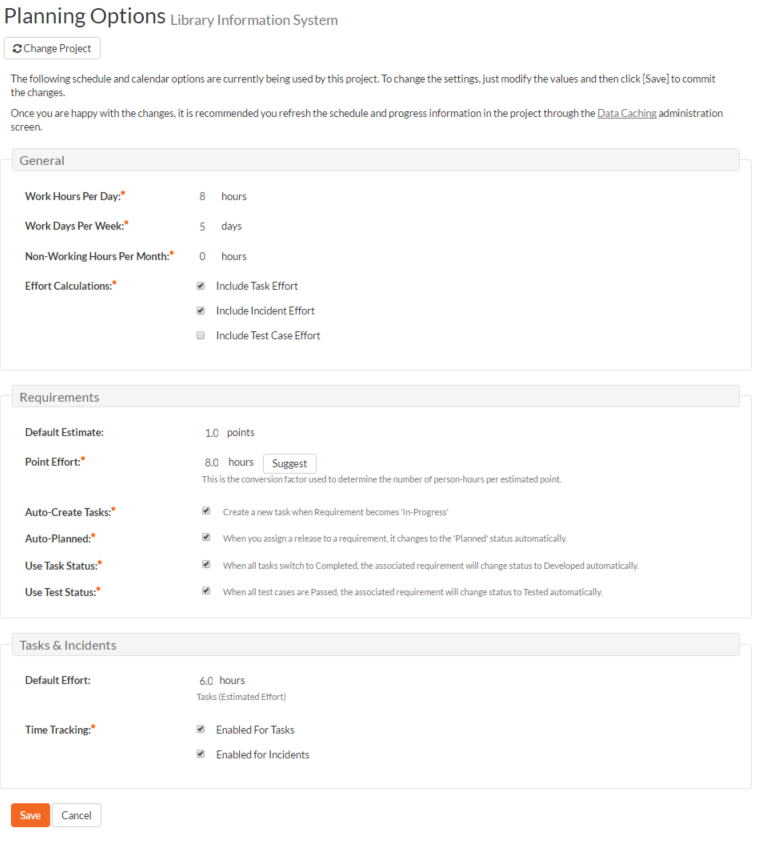
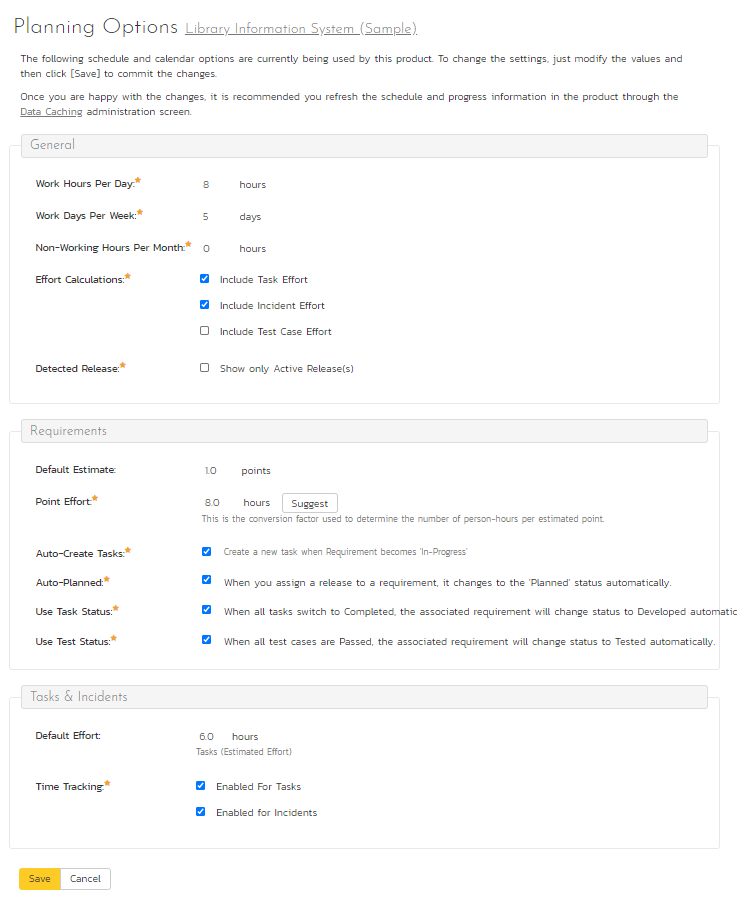
changes to planning options

diff --git a/docs/Spira-Administration-Guide/Product-Planning.md b/docs/Spira-Administration-Guide/Product-Planning.md
@@ -9,27 +9,28 @@ The Planning Options page lets you configure the schedule and calendar options f
 This page allows you to make changes to the following settings:
 
 ### General
-- **Work Hours Per Day** -- this setting allow you to specify how many work hours should be used when converting an effort calculation from hours to calendar days. For example a 12 hour task will occupy two days if you set the working hours per day to 6 hours, whereas the same task will occupy 1 ½ days only if you set the working hours per day to 8 hours.
-- **Work Days Per Week** -- this setting allows you to specify how many days in the week are *typically* worked on the product. By default the system assumes a 5-day (Mon-Fri) working week, but if your organization works Saturdays (for example), you may want to switch to a 6-day working week. If you want to use partial days, then just round up to the nearest day and add non-working hours (see below) to compensate.
-- **Non-Working Hours Per Month** -- this setting allows to specify how many non-working hours *typically* need to be accounted for. This is useful if you want to have a working week that contains a fractional number of days or if you have recurring activities that need to be removed from each month. *Note that if you have specific holidays, vacation days that need to be accounted for, it is better to use the Release/Iteration non-working time feature instead.*
-- **Effort Calculations** -- When calculating how much effort has been scheduled in a release or iteration, the system will aggregate the individual effort values (both estimated and actual) for all the task, incident and test cases artifacts associated with the release/iteration. This setting allows you to specify if you want only task, incident, or test case effort values to be included in the release/iteration total. This is useful if your product management methodology requires that incident or test case effort values be excluded from the total.
+- **Work Hours Per Day**: this setting allow you to specify how many work hours should be used when converting an effort calculation from hours to calendar days. For example a 12 hour task will occupy two days if you set the working hours per day to 6 hours, whereas the same task will occupy 1 ½ days only if you set the working hours per day to 8 hours.
+- **Work Days Per Week**: this setting allows you to specify how many days in the week are *typically* worked on the product. By default the system assumes a 5-day (Mon-Fri) working week, but if your organization works Saturdays (for example), you may want to switch to a 6-day working week. If you want to use partial days, then just round up to the nearest day and add non-working hours (see below) to compensate.
+- **Non-Working Hours Per Month**: this setting allows to specify how many non-working hours *typically* need to be accounted for. This is useful if you want to have a working week that contains a fractional number of days or if you have recurring activities that need to be removed from each month. *Note that if you have specific holidays, vacation days that need to be accounted for, it is better to use the Release/Iteration non-working time feature instead.*
+- **Effort Calculations**: When calculating how much effort has been scheduled in a release or iteration, the system will aggregate the individual effort values (both estimated and actual) for all the task, incident and test cases artifacts associated with the release/iteration. This setting allows you to specify if you want only task, incident, or test case effort values to be included in the release/iteration total. This is useful if your product management methodology requires that incident or test case effort values be excluded from the total.
+- **Detected Release**: By default the Incident detected release field shows ALL releases in the product. This dropdown can become very hard to use if you have a very large number of releases (many hundreds or thousands). If you check the box for this setting the Incident detected release field will only show *active* releases, not all releases.
 
 ### Requirements
 
-- **Default Estimate** -- Normally when you create a new Requirement in the system it will be given an empty initial estimate (in points). However if many requirements are typically a standard size, then as a time-saver, the system will let you specify a default estimate value that will be used when a new requirement is created.
-- **Point Effort** -- When requirements are added to the Planning Board or Iteration planning screen, they will have an initial effort (in hours) that is used until tasks are added (see Auto-Create Tasks option). This field contains the standard conversion factor used to convert points into hours based on the current team velocity (how much time it takes on average to accomplish one story point). As the product progresses, the team velocity will change, so you can click on the \[Suggest\] button to have the system calculate how many hours each existing story point has taken to implement in the product and provide that as a recommendation:
+- **Default Estimate**: Normally when you create a new Requirement in the system it will be given an empty initial estimate (in points). However if many requirements are typically a standard size, then as a time-saver, the system will let you specify a default estimate value that will be used when a new requirement is created.
+- **Point Effort**: When requirements are added to the Planning Board or Iteration planning screen, they will have an initial effort (in hours) that is used until tasks are added (see Auto-Create Tasks option). This field contains the standard conversion factor used to convert points into hours based on the current team velocity (how much time it takes on average to accomplish one story point). As the product progresses, the team velocity will change, so you can click on the \[Suggest\] button to have the system calculate how many hours each existing story point has taken to implement in the product and provide that as a recommendation:
 
 ![](img/Product_Planning_112.png)
 
-- **Auto-Create Tasks** -- When you change the status of a Requirement in the system to "In-Progress" the system will automatically add a default Task to that requirement if no tasks already exist. This is a useful shortcut that makes planning with requirements easier in the case when the requirements are of a size where they don't need to be formally decomposed into multiple developer tasks. However if you don't want the system to automatically create tasks in, you can deselect the option for the current product and it will turn off the feature.
-- **Auto-Planned** -- When this option is enabled, if you assign a release/iteration to a requirement, and the requirement is not already in the 'Planned' status, the system will automatically switch the status of the requirement to 'Planned'.
-- **Use Task Status** -- When this option is enabled, if you add any tasks to a requirement, the status of the requirement will be automatically governed by the aggregate status of the associated tasks.
+- **Auto-Create Tasks**: When you change the status of a Requirement in the system to "In-Progress" the system will automatically add a default Task to that requirement if no tasks already exist. This is a useful shortcut that makes planning with requirements easier in the case when the requirements are of a size where they don't need to be formally decomposed into multiple developer tasks. However if you don't want the system to automatically create tasks in, you can deselect the option for the current product and it will turn off the feature.
+- **Auto-Planned**: When this option is enabled, if you assign a release/iteration to a requirement, and the requirement is not already in the 'Planned' status, the system will automatically switch the status of the requirement to 'Planned'.
+- **Use Task Status**: When this option is enabled, if you add any tasks to a requirement, the status of the requirement will be automatically governed by the aggregate status of the associated tasks.
 - **Use Test Status** - When this option is enabled, if you associate any test cases to a requirement, the status of the requirement will be automatically switched from 'Developed' to 'Tested' when all the associated test cases are passed.
 
 ### Task & Incidents
 
-- **Default Effort** -- Normally when you create a new Task in the system it will be given an empty initial estimated effort. However if many tasks are typically a standard size, then as a time-saver, the system will let you specify a default estimated effort that will be used when a new task is created.
-- **Time Tracking** -- SpiraPlan® has an integrated time tracking system that allows the easy entry of the hours spent on all assigned incidents and tasks in one place (see the *SpiraPlan User Manual* for more details on this feature). This setting allows administrators to specify if they want the integrated time tracking features enabled for both incidents or tasks (or neither).
+- **Default Effort**: Normally when you create a new Task in the system it will be given an empty initial estimated effort. However if many tasks are typically a standard size, then as a time-saver, the system will let you specify a default estimated effort that will be used when a new task is created.
+- **Time Tracking**: SpiraPlan® has an integrated time tracking system that allows the easy entry of the hours spent on all assigned incidents and tasks in one place (see the *SpiraPlan User Manual* for more details on this feature). This setting allows administrators to specify if they want the integrated time tracking features enabled for both incidents or tasks (or neither).
 
 
 ## Testing Settings

diff --git a/docs/About/release-notes-v6.md b/docs/About/release-notes-v6.md
@@ -37,7 +37,7 @@
         - A new "Lightweight" template lets users work in a very streamlined way with effectively no workflow constraints [RQ:2823]
 
     * Source Code Management (SpiraTeam and SpiraPlan only)
-        - Artifact associations show revisions from all branches, not just the branch being filtered on in the source code view [RQ:2973]
+        - [Artifact associations](../../Spira-User-Manual/Application-Wide/#associations) show revisions from all branches, not just the branch being filtered on in the source code view [RQ:2973]
         - There is a background feature flag to disable Source Code Revisions in Documents/Associations (available to IT on-premise only) [RQ:2974]
 
 
@@ -63,7 +63,7 @@
         - The Relative Size widget should hide the legend when there are over 10 items to show to make it more useable [IN:5692]
 
     * Other
-        - Enable custom reports to use ${ReleaseIds} token in their ESQL like custom graphs [IN:460] (see [RQ:2976] above - it is so nice to close out an old enhancement :tada:)
+        - Enable custom reports to use ${ReleaseIds} token in their ESQL like custom graphs [IN:460] (see [RQ:2976] above - so nice to close out an old enhancement :tada:)
         - Do not show an error if you add a folder of test cases to the same release twice (error occurs when the folder contains deleted test cases) [IN:4880]
         - Correct references to old term "Resolved Release" to "Planned Release" in incident notifications, incident detailed report, and incident workflows [IN:5485]
         - Remove references to 'Project' when exporting an artifact from one product to another [IN:5540]
@@ -73,8 +73,8 @@
         - Task list: issues if the user's current folder has been deleted [IN:5027]
         - Test Case list: issues if the user's current folder has been deleted [IN:5658]
         - Test Set list: issues if the user's current folder has been deleted [IN:5659]
-        - Document list: issues if the user's current folder has been deleted - Copy [IN:5662]
-        - Performance fixes for projects with large numbers of releases by introducing a product setting to optionally use active releases only for detected release dropdown [IN:5671]
+        - Document list: issues if the user's current folder has been deleted [IN:5662]
+        - Performance fixes for projects with large numbers of releases by introducing a [product setting](../../Spira-Administration-Guide/Product-Planning/#general) to optionally use active releases only for detected release dropdown [IN:5671]
         - Relax the incident closed/start date validation as it can break data-syncs [IN:5693]
         - Make filtering by release more consistent between the hierarchical and sorted requirement list pages to always include any child releases/sprints [IN:5709]
 
